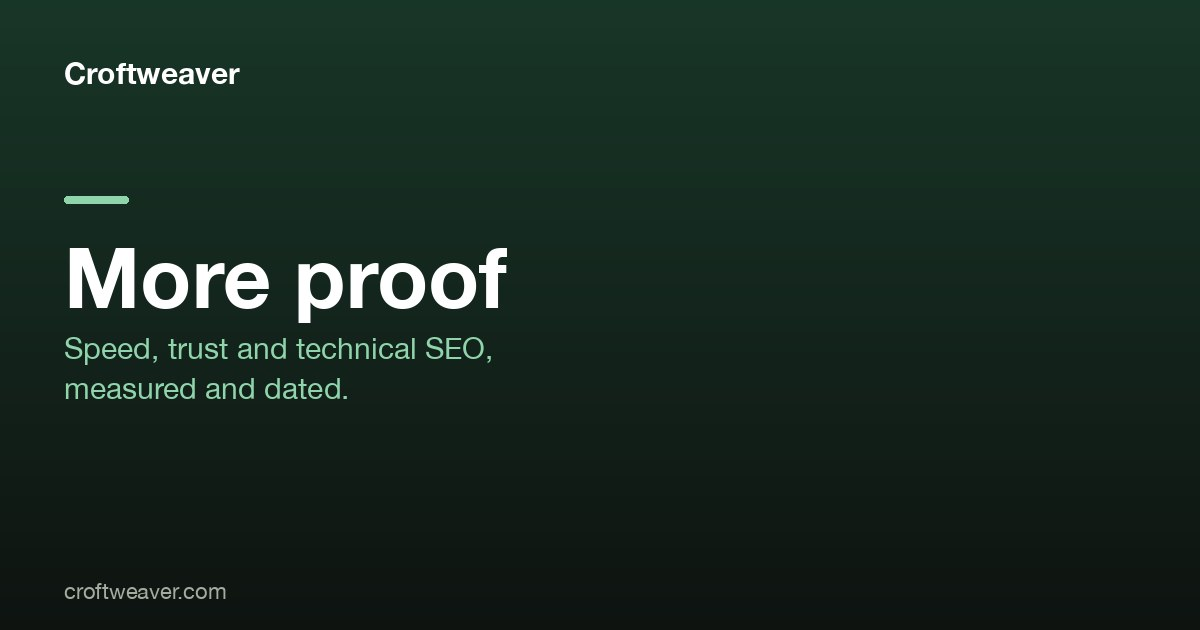
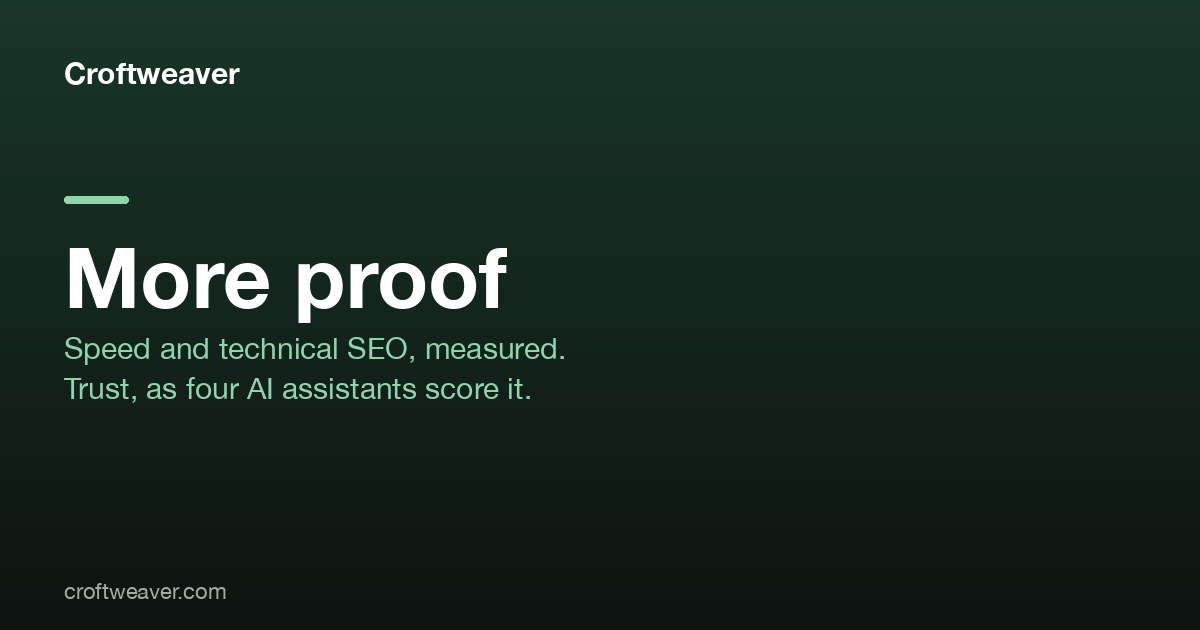
proof: say what the data guard checks, and carry the Lab's caveats (review round 1)
/more-proof explains GEO once; both pages say the scores are not comparable across
assistants (the Lab's own caveat), that they are not rankings and do not show that an
assistant would recommend the site, and when they were read from the Lab. The build guard
is described as what it is: a check that the rows still average to the figures copied on
2026-10-08. It never reads the Lab, so a later change there, or a slip in one row, is not
seen; the README launch requirements say to re-read the Lab. The tests sentence is
qualified as on /positioning. The recorded exception names the Lab's prompt. README,
STORY.md, CONTENT_GUIDE.md and POSITIONING.md no longer place PageSpeed on the home page,
and the share card no longer presents trust as measured.

Changed region(s): [[0.1233, 0.5127, 0.4625, 0.573], [0.0308, 0.6032, 0.4317, 0.6333]]

diff --git a/src/data/proof.ts b/src/data/proof.ts
@@ -16,9 +16,11 @@ export const PROOF = [
 
 // ── The AI panel, on the home page and on /more-proof ───────────────────────────
 // Four AI assistants were given the same prompt about genai-wednesday.de by the Builder
-// Lab (https://genai-wednesday.de/builder-lab, second round). Read from that page on
+// Lab (https://genai-wednesday.de/builder-lab, second round). Copied from that page on
 // 2026-10-08. They are opinions: GEO and E-E-A-T have no official scorer, and the Lab
-// says so on its own page. Scores are stored in tenths so the averages are exact.
+// says so on its own page, together with a second caveat: scores are not comparable
+// across assistants. Scores are stored in tenths so sums are exact; the averages are
+// rounded half up, as the Lab shows them.
 const panelRows = [
   { assistant: 'ChatGPT', seo: 90, geo: 92, eeat: 91 },
   { assistant: 'Gemini (Antigravity)', seo: 82, geo: 78, eeat: 84 },
@@ -28,12 +30,14 @@ const panelRows = [
 type Column = 'seo' | 'geo' | 'eeat';
 const meanOf = (column: Column) => Math.round(panelRows.reduce((n, r) => n + r[column], 0) / panelRows.length);
 const average = { seo: meanOf('seo'), geo: meanOf('geo'), eeat: meanOf('eeat') };
-// The averages the Lab shows. A changed row must change them too, or the build stops,
-// so this page and the Lab cannot quietly disagree.
+// The averages the Lab showed on the day these rows were copied. This is a consistency
+// check, not a link to the Lab: the build never reads the Lab, so a later change there,
+// or a small slip in a single row, is not seen. A careless edit that moves an average
+// stops the build. Re-read the Lab before launch (README launch requirements).
 const LAB_AVERAGE = { seo: 83, geo: 81, eeat: 85 } as const;
 for (const column of ['seo', 'geo', 'eeat'] as const) {
   if (average[column] !== LAB_AVERAGE[column]) {
-    throw new Error(`src/data/proof.ts: the ${column} average is ${average[column]} (tenths) but the Builder Lab shows ${LAB_AVERAGE[column]}. Re-read the Lab page and update the rows.`);
+    throw new Error(`src/data/proof.ts: the ${column} rows average ${average[column]} but the Builder Lab showed ${LAB_AVERAGE[column]} when they were copied (both in tenths). Re-read the Lab page and update the rows and the averages together.`);
   }
 }
 /** 82 becomes "8.2". */
@@ -41,6 +45,7 @@ export const fmtScore = (tenths: number) => (tenths / 10).toFixed(1);
 
 export const PANEL = {
   lab: 'https://genai-wednesday.de/builder-lab',
+  readOn: { iso: '2026-10-08', label: '8 October 2026' },
   date: { iso: '2026-08-20', label: '20 August 2026' },
   firstRound: { iso: '2026-06-19', label: '19 June 2026' },
   rows: panelRows,

diff --git a/scripts/generate_og_cards.py b/scripts/generate_og_cards.py
@@ -68,7 +68,7 @@ DEFAULT_SUBTITLES = ["Stop waiting on someone else for every change.", "Website 
 PAGES: list[tuple[str, str, list[str]]] = [
     ("checks", "The test gate", ["What each suite checks,", "and what a pass does not prove."]),
     ("proof", "Built with Croftweaver", ["One site, measured:", "speed, search clicks, AI mentions."]),
-    ("more-proof", "More proof", ["Speed, trust and technical SEO,", "measured and dated."]),
+    ("more-proof", "More proof", ["Speed and technical SEO, measured.", "Trust, as four AI assistants score it."]),
     ("skills", "Website skills", ["The catalogue, by stage:", "build, verify, launch, grow."]),
     ("start", "Quickstart", ["From nothing to your first site,", "with your AI coding assistant."]),
     ("why", "Why build for search and AI visibility", ["The case, for the person", "who decides."]),

diff --git a/POSITIONING.md b/POSITIONING.md
@@ -73,7 +73,7 @@ announcements. `/compare` carries a link and a date for every statement it makes
 | Unique attribute | Value it enables | Proof |
 |---|---|---|
 | Search work done by default | Fast, accessible, and the search basics in place from the first build | PageSpeed Insights, mobile, home page, 4 October 2026 (performance / accessibility / best practices / SEO): genai-wednesday.de 99/100/100/100, m-squad.com 99/100/100/100, apreet.com 100/100/100/100. Re-run: pagespeed.web.dev with each address. This measures speed, accessibility and SEO basics, not rankings and not AI readability |
-| AI-readability work done by default | Pages an assistant can read and quote | `llms.txt`, schema.org JSON-LD and the `llms-coverage` suite in every generated repo |
+| AI-readability work done by default | Pages an assistant can read and quote | `llms.txt`, schema.org JSON-LD and the `llms-coverage` suite in every generated repo. AI panel, genai-wednesday.de, second round of 20 August 2026 (SEO and GEO on the home page, E-E-A-T on `/more-proof`): AI opinions with no official scorer, not a measurement and not evidence that an assistant would recommend the site (`src/data/proof.ts`) |
 | Built-in test gate | The work cannot silently decay on page one hundred | The suites ship in every generated repo; this site runs them before every push and in CI |
 | Weekly loop from real data | Edits follow what people actually search for | genai-wednesday.de, relaunched 27 March 2026: clicks from Google per 28 days rose from 3 around the relaunch to a best 28 days of 99 (16 June to 13 July 2026) and stood at 50 in the 28 days to 29 September 2026. The daily figures are published on `/proof` |
 | Skill suite, static Astro output | No platform rent, no lock-in, cheap to host | Public MIT repo; Cloudflare Pages free tier |
@@ -82,10 +82,13 @@ announcements. `/compare` carries a link and a date for every statement it makes
 
 Every figure is per named site and dated. The PageSpeed figures were measured on
 4 October 2026 and are the ones on `/more-proof` (`src/data/proof.ts`). The AI panel's
-scores (SEO, GEO and E-E-A-T, the second round of 20 August 2026, read from the Builder
-Lab on 2026-10-08) are on the home page and on `/more-proof`. They are AI opinions, and
-the build stops if the averages in `src/data/proof.ts` stop matching the Lab's. The Search
-Console figures were re-checked on 4 October 2026 and are published on `/proof`, with
+SEO and GEO scores are on the home page, and its SEO, GEO and E-E-A-T scores on
+`/more-proof` (the second round of 20 August 2026, copied from the Builder Lab on
+2026-10-08). They are AI opinions, and the Lab itself says they are not comparable across
+assistants. `src/data/proof.ts` checks that the rows still average to the figures the Lab
+showed that day; it never reads the Lab, so a later change there, or a small slip in one
+row, is not seen. Re-read the Lab before launch (README). The Search Console figures
+were re-checked on 4 October 2026 and are published on `/proof`, with
 the daily numbers behind them. Owner decision, 2026-10-04: `/proof` shows one site,
 genai-wednesday.de. This replaces the earlier launch requirement of three sites.
 
@@ -191,11 +194,14 @@ is built.
 - Exception, owner decision 2026-10-08: the home page and `/more-proof` show the
   panel's scores for genai-wednesday.de (SEO and GEO on the home page; SEO, GEO and
   E-E-A-T on `/more-proof`), each with its date, a link to the Lab, and the Lab's own
-  caveat that they are AI opinions with no official scorer. The Lab keeps the full
-  scorecard, both rounds and the notes for each assistant.
+  caveats: AI opinions with no official scorer, and not comparable across assistants.
+  `/more-proof` also shows the Lab's one-line prompt, attributed, so a visitor can
+  reproduce the panel. The Lab keeps the full scorecard, both rounds and the notes for
+  each assistant.
 - No copy is shared between the two, apart from one third-party testimonial quoted
-  verbatim with attribution, and those scores, which are data shown with their source. This site links to the Lab; the Lab links back when its
-  page is reworked (README status table, step 9).
+  verbatim with attribution, and those scores and that prompt, which are shown with
+  their source. This site links to the Lab; the Lab links back when its page is
+  reworked (README status table, step 9).
 
 ## Routes considered and not chosen
 

diff --git a/README.md b/README.md
@@ -43,7 +43,9 @@ genai-wednesday.de/builder-lab is the community showcase and owns GenAI Wednesda
 evidence (its scorecard, the AI score table, FAQPage schema). This site is the project
 home (the promise, the test gate, skills catalogue, quickstart, a proof page for one
 site, SoftwareSourceCode schema). No shared copy apart from one attributed
-testimonial. This site links to the Lab; the Lab links back in step 9. Details:
+testimonial and, by owner decision on 2026-10-08, the panel's scores and its one-line
+prompt, shown with their date, a link and the Lab's caveats. This site links to the Lab;
+the Lab links back in step 9. Details:
 `POSITIONING.md`.
 
 ## Working on the site
@@ -72,7 +74,7 @@ requests.
 |---|---|---|---|---|
 | 0 | Decisions (positioning, lines, name, rename route, deck, palette) | owner | done | section "Decisions" above; positioning in `POSITIONING.md` |
 | 0a | Name and trademark check for "Croftweaver" | owner | open: no search for "Croftweaver" recorded here yet. The earlier check was for the dropped name "Webcroft" (owner's own searches, 2026-10-04: no identical hit in TMview, USPTO, the UK register and EUIPO; similar marks "webcraft", "web craft" and "croft" in classes 9, 35 and 42, no legal opinion). Webcroft was then dropped as too close to an existing company | — |
-| 0b | Fresh, publishable proof figures | owner | PageSpeed for three sites is on the home page (step 4). Owner, 2026-10-04: `/proof` uses genai-wednesday.de only; its Search Console figures (28 days to 29 September 2026) and the AI check of 2026-09-28 are on `/proof` (step 5) | karero/croftweaver-site#7, merged 2026-10-04 (`646bcd1`) |
+| 0b | Fresh, publishable proof figures | owner | PageSpeed for three sites is on `/more-proof` (step 4b). Owner, 2026-10-04: `/proof` uses genai-wednesday.de only; its Search Console figures (28 days to 29 September 2026) and the AI check of 2026-09-28 are on `/proof` (step 5) | karero/croftweaver-site#7, merged 2026-10-04 (`646bcd1`) |
 | 1 | Requirements: `POSITIONING.md`, `CONTENT_GUIDE.md`, this table | PR | done | karero/croftweaver-site#3, merged 2026-10-04 (`f304bef`) |
 | 2 | Brand: palette tokens, share-card colours, 404 page, `_headers` placeholder, `llms.txt` licence wording | PR | done | karero/croftweaver-site#4, merged 2026-10-04 (`0d38a11`) |
 | 2a | Legal address into `imprint.astro` and `privacy.astro` | owner fact + PR | open, needs the address | — |
@@ -100,6 +102,10 @@ Launch requirements that no test enforces:
   and its MX records point to Google (seen 2026-10-08). Before launch a test mail to it
   must arrive, because the imprint and privacy pages publish it as their contact; record
   the date here.
+- The AI panel on the home page and `/more-proof` is copied from the Builder Lab (read
+  2026-10-08, second round of 20 August 2026). Re-read the Lab before launch and update
+  `src/data/proof.ts` if its numbers or caveats changed; the build only checks that the
+  rows still average to the figures copied that day.
 - `/proof` with fresh, dated figures for genai-wednesday.de (one site by owner
   decision, 2026-10-04; the earlier requirement was three sites).
 - Real icons and a logo in `public/` (icon-192/512, maskable, apple-touch, favicon,

diff --git a/CONTENT_GUIDE.md b/CONTENT_GUIDE.md
@@ -89,7 +89,7 @@ uses `SITE.titleHome` as the whole title, so that one may be up to 60 characters
 | Skills | `/skills` | catalogue by lifecycle: Build, Verify, Launch, Grow | website skills | Website skills catalogue | [x] |
 | Start | `/start` | zero to a first site | quickstart | Quickstart: your first site | [x] |
 | Proof | `/proof` | one site built with it, measured; re-runnable where possible | built with Croftweaver | Built with Croftweaver: one site, measured | [x] |
-| More proof | `/more-proof` | PageSpeed and technical SEO for three sites; the AI panel's E-E-A-T scores; what none of it shows | more proof | More proof: speed, trust and technical SEO | [x] |
+| More proof | `/more-proof` | PageSpeed and technical SEO for three sites; the AI panel's SEO, GEO and E-E-A-T scores; what none of it shows | more proof | More proof: speed, trust and technical SEO | [x] |
 | Why | `/why` | the case for decision-makers, with the deck as PDF | search and AI visibility | Why build for search and AI visibility | [x] page; the PDF follows with the deck refresh |
 | Compare | `/compare` | honest alternatives, "choose X when" | alternatives | Croftweaver and its alternatives | [x] |
 | Roadmap | `/roadmap` | what is missing, planned, deliberately out | roadmap | Roadmap: what is missing, what comes next | [x] |

diff --git a/STORY.md b/STORY.md
@@ -123,7 +123,7 @@ at the end of section 1.
 | 2 | Stakes | §6, then a short pivot to the guide and a link to `/why` | no |
 | 3 | Plan | §4 as an ordered list, and the note on rebuilding | yes |
 | 4 | Value stack | the three §7 lines, each a headline and a sentence, each linking to its detail | no |
-| 5 | Explanatory paragraph | what Croftweaver is, the guide's empathy, three objections (coding, ranking, cost) answered from POSITIONING.md and `/start`, and a link to `/proof` | no |
+| 5 | Explanatory paragraph | what Croftweaver is, the guide's empathy, three objections (coding, ranking, cost) answered from POSITIONING.md and `/start`, and links to `/more-proof` and `/proof` | no |
 | 6 | Lead generator | omitted (§5 is blank) | no |
 | 7 | Junk drawer | the detail sections (built in, the test suites, the weekly loop, "The site is yours", fit, quickstart), the learning section below, then the sign-off | yes |
 
